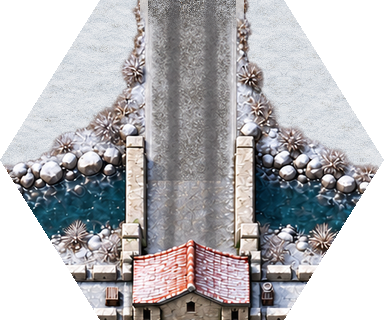
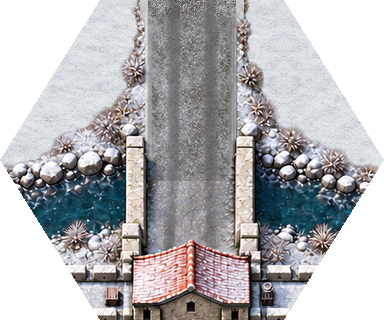
fix(terrain): winter HQ street takes the winter road tile's surface
The winter HQ street was lighter than the winter road tile (L* 59.1 vs
54.9 over the same street mask) with snow rims along its edges.
hq-winter-v4 regrades the street and bridge deck in Go: each pixel's
L*a*b* shifts by the road tile's median across profile minus the
street's, so texture stays and the surface, edges and ruts follow the
tile (mean L* 54.8, ruts at the tile's places, 95 and 100 % as deep, no
paint-white pixels in the middle). compound-hq-v4 cuts it; only hqN_w
changes.

Claude-Session: https://claude.ai/code/session_01GYYpxSaZdbX1BuoopUdKHR

Changed region(s): [[0.5625, 0.0312, 0.625, 0.6875], [0.375, 0.0625, 0.4062, 0.6875]]

diff --git a/tools/art-review/compound_entry_offset_test.go b/tools/art-review/compound_entry_offset_test.go
@@ -107,7 +107,7 @@ var compoundEntryDeepBands = map[string]struct {
 // px off) and deep inside, where a street a few degrees off the road's
 // direction has drifted apart (the factory's v3 street: 1.5 world px, straightened in v4).
 func TestCompoundEntryStreetMeetsTheRoad(t *testing.T) {
-	for _, name := range []string{"compound-hq-v3.json", "compound-depot-v3.json", "compound-factory-v4.json", "compound-factory-summer-v2.json", "compound-ruin-v2.json"} {
+	for _, name := range []string{"compound-hq-v4.json", "compound-depot-v3.json", "compound-factory-v4.json", "compound-factory-summer-v2.json", "compound-ruin-v2.json"} {
 		in, err := loadCompoundInputs(filepath.Join("..", "..", "art", "pipeline", name))
 		if err != nil {
 			t.Fatal(err)

diff --git a/tools/art-review/compound_generate_test.go b/tools/art-review/compound_generate_test.go
@@ -33,7 +33,7 @@ func TestGenerateCompoundTiles(t *testing.T) {
 		at[campaignExportKey(e.ID, e.Density)] = i
 	}
 	replaced := 0
-	for _, manifest := range []string{"compound-hq-v3.json", "compound-depot-v3.json", "compound-factory-v4.json", "compound-factory-summer-v2.json"} {
+	for _, manifest := range []string{"compound-hq-v4.json", "compound-depot-v3.json", "compound-factory-v4.json", "compound-factory-summer-v2.json"} {
 		in, err := loadCompoundInputs(filepath.Join(root, "art/pipeline", manifest))
 		if err != nil {
 			t.Fatal(err)

diff --git a/art/terrain/hq/prompt.md b/art/terrain/hq/prompt.md
@@ -4,7 +4,7 @@ title: Headquarters
 kind: terrain
 status: candidate
 runtime_ids: hqC, hqC_w, hqN, hqN_w, hqNE, hqNE_w, hqNW, hqNW_w, hqS, hqS_w, hqSE, hqSE_w, hqSW, hqSW_w
-masters: hq-summer-v3.png, hq-winter-v3.png, hq-summer-v2.png, hq-winter-v2.png, hq-summer-v1.png, hq-winter-v1.png
+masters: hq-winter-v4.png, hq-summer-v3.png, hq-winter-v3.png, hq-summer-v2.png, hq-winter-v2.png, hq-summer-v1.png, hq-winter-v1.png
 ---
 
 ## Look
@@ -37,15 +37,15 @@ The scene is sliced into seven hex crops with shared placements, so pieces join 
 road meets the regular road tile at the north port.
 
 ## Post
-Selected sources are the native 1254x1254 `hq-summer-v3.png` and `hq-winter-v3.png`, generated with built-in
-imagegen and true alpha. They are layout edits of `hq-summer-v2.png` (four round drum towers with low slate
+Selected sources are `hq-summer-v3.png` and `hq-winter-v4.png` (1254x1254, true alpha); `hq-winter-v4.png`
+is the native imagegen `hq-winter-v3.png` with its street regraded in Go (below). They are layout edits of `hq-summer-v2.png` (four round drum towers with low slate
 roofs, red terracotta north gate and south inner hall, a textured dirt courtyard, narrow northern moat and
 bridge; PULSE was the layout/style reference, `ground-crater-summer-v1.png` the material-detail reference):
 the entrance road and the bridge deck are as wide as the road tile (22-23 world px), and in winter they
 carry packed snow with ruts instead of asphalt with white lines. The candidate has visible short wall
 faces; the requested camera remains nadir.
 
-`art-review -compound art/pipeline/compound-hq-v3.json` places the summer and winter scenes on the seasonal
+`art-review -compound art/pipeline/compound-hq-v4.json` places the summer and winter scenes on the seasonal
 meadow and slices the seven cells; both seasons share exact placement. The scene fills the 238x240 box,
 cropping the excess, and `shift` moves it 0.25 world px west so the north street lies on the port (centre within
 0.1 world px); its first 10 world px blend into the season's road tile (`entry_road`). Exports are fixed Lanczos3 at 2x (192x160) and 4x (384x320) with complementary half-open hex ownership; promote into `assets/terrain/<family>/` and re-index.
@@ -89,6 +89,21 @@ Avoid: moving, resizing or adding anything, a narrower or wider road, white line
 
 Image 1 is the selected summer fortress: change season only, preserve every outline and position. Image 2 is the installed winter fortress: take only its snow colour, frost and bare-twig look; its road still shows summer asphalt with white dashes, which must NOT be copied. Image 3 is the winter road tile of the map over snow: take only its road surface (packed grey snow, slush ruts, soft snow edges) for the entrance road and bridge deck; do not copy its width or position.
 ```
+
+### Winter street regrade (2026-10-24)
+
+`hq-winter-v4.png` is `hq-winter-v3.png` with the entrance street and bridge deck regraded in Go
+(scratch tool, not kept; no imagegen): every pixel within 11 world px of the street axis (easing out by
+smoothstep at 11.75) and less than 53 world px below the north port (easing out at 57, before the
+gatehouse roof) has its L\*a\*b\* shifted by the road tile's median across profile minus the street's
+own, both taken over depths 10–44 world px in 0.25 world px bins and smoothed by a Gaussian of 0.5 world
+px (road tile `assets/terrain/road/road36_w-4x.png`; street in the master through the scene transform,
+scale 0.19139, offset (−1.25, 0) world px). Texture stays; the snow rims along the edges and the light
+centre become the road tile's surface, and the ruts take its depth and place. In the 4x winter scene,
+street |l| ≤ 11.5 world px over depths 10–44: mean L\* 54.8 (v3 59.1; the road tile over the same mask
+54.9, its surface 53.4); ruts at −4.0 and +4.5 world px (road tile −4.0, +4.75) and 95 % and 100 % as
+deep as the road tile's below the surface mean; no paint-white pixel (L\* > 85, C\* < 8) in the middle
+8 world px; outside the street 139 of 892488 scene pixels differ, by at most 1 level (Lanczos reach).
 
 ## Avoid
 - visible tiling or repeated rounded "pillow" patterns
